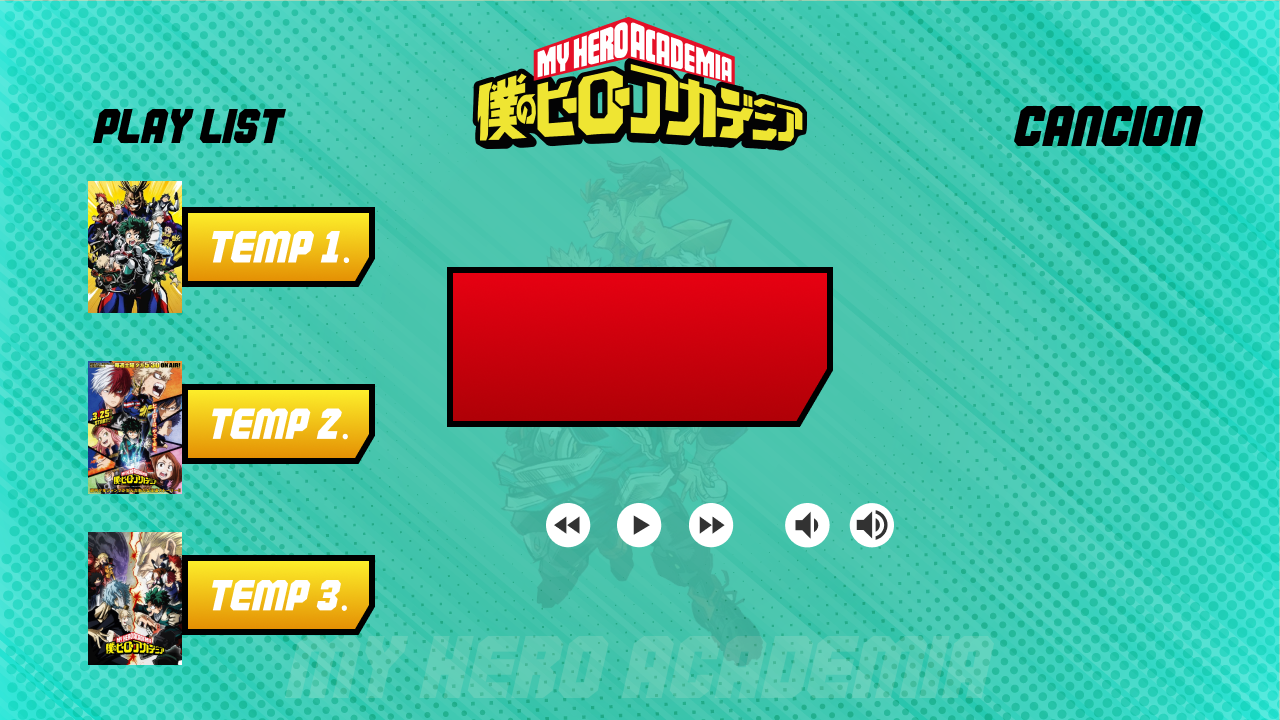
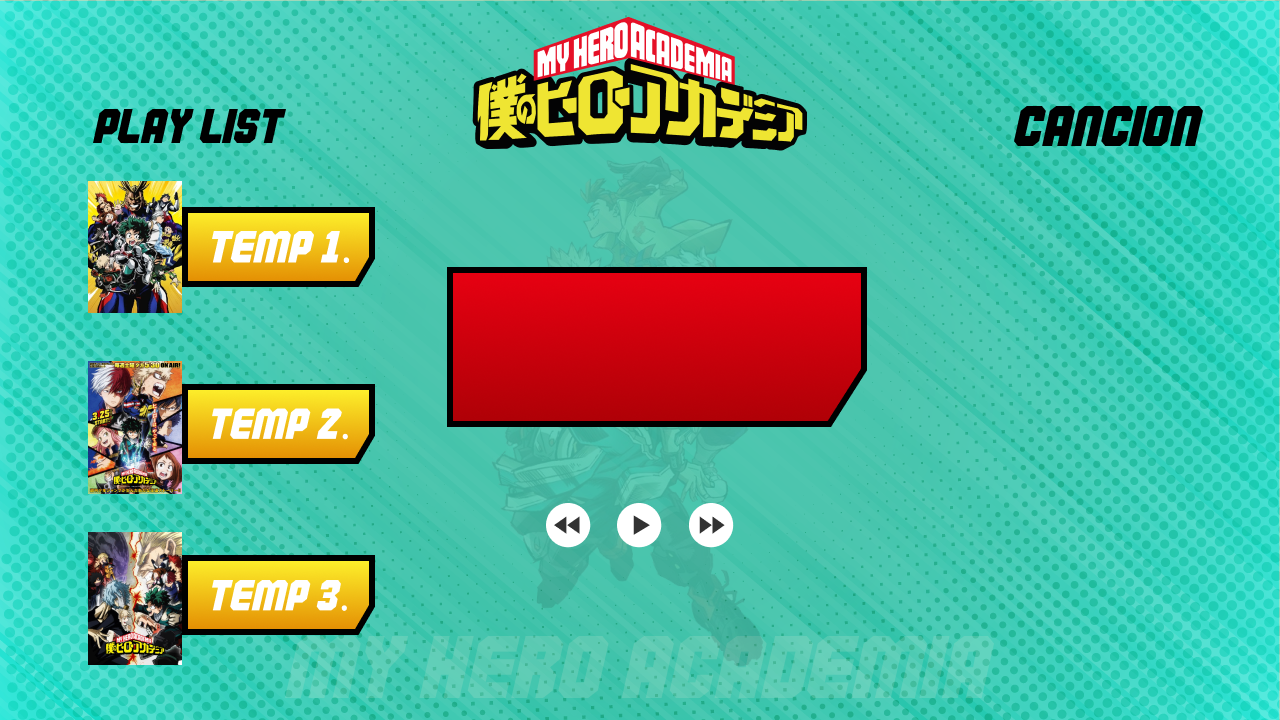
Creacion array playlis

Changed region(s): [[0.625, 0.3667, 0.6875, 0.6111], [0.5938, 0.7028, 0.7188, 0.7639]]

diff --git a/model/Logica.js b/model/Logica.js
@@ -81,4 +81,14 @@ class Logica{
             },
         ] 
     }
+    setup(){
+        //Array de las playlist
+        this.playlist = []
+        this.playlist.push(new Playlist(0, "Primera Temporada", [this.songs[0], this.songs[1], this.songs[2], this.songs[3]]));
+        this.playlist.push(new Playlist(1, "Segunda Temporada", [this.songs[4], this.songs[5], this.songs[6], this.songs[7]]));
+        this.playlist.push(new Playlist(2, "Segunda Temporada", [this.songs[8], this.songs[9], this.songs[10]]));
+
+        this.volumeSlider = createSlider(0.0, 1.0, 0.5, 0.01);
+        this.volumeSlider.position(478, 932);
+    }
 }

diff --git a/view/Interfaz.js b/view/Interfaz.js
@@ -2,7 +2,7 @@ class Interfaz {
     constructor() {
         this.img
     }
-
+    //cargamos interfaz xd
     cargarInterfaz() {
         this.img = loadImage('./Interfaces/Pantalla1.png');
     }
